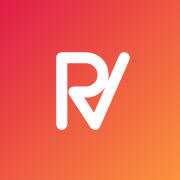
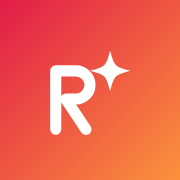
Rebrand to Resumorah: new name and spark mark across the app
- Name: Resumorah everywhere (site config, metadata, AI app title, product
  preview labels in all 12 dictionaries, package name, README)
- Logo: a rounded R with a four-point spark ('orah' = light; the spark is
  also the product's AI cue), same rose-to-tangerine gradient
- Lockup tuned so the R sits on the wordmark baseline at capital height;
  the app-icon tile centres the mark optically
- Regenerated favicon.ico (16/32/48), icon.svg, apple-icon, PWA icons
  (192/512/maskable) and the Open Graph / Twitter images

Claude-Session: https://claude.ai/code/session_01Cxjp2Q4ibxDbgXTPfCaN9N

Changed region(s): [[0.2778, 0.2778, 0.7222, 0.75]]

diff --git a/components/ui/logo.tsx b/components/ui/logo.tsx
@@ -1,9 +1,14 @@
 import { siteConfig } from "@/lib/constants";
 import { cn } from "@/lib/cn";
 
-/** The Flow mark: one stroke draws the R and runs on into a V / tick. */
-export const BRAND_MARK_PATH = "M22 84V18H46a17 17 0 0 1 0 34H34L55 84L84 18";
-const BRAND_GRADIENT_ID = "resumivo-brand-gradient";
+/**
+ * The Resumorah mark: a rounded R with a four-point spark beside it. "Orah"
+ * means light, and the spark doubles as the AI cue used across the product.
+ */
+export const BRAND_MARK_PATH = "M20 84V26H40a14 14 0 0 1 0 28H30L50 84";
+export const BRAND_SPARK_PATH =
+  "M74 6C78.4 21.6 78.4 21.6 94 26C78.4 30.4 78.4 30.4 74 46C69.6 30.4 69.6 30.4 54 26C69.6 21.6 69.6 21.6 74 6Z";
+const BRAND_GRADIENT_ID = "resumorah-brand-gradient";
 
 /**
  * Shared gradient for every logo on the page. Rendered once in the root layout:
@@ -40,7 +45,8 @@ export function LogoMark({ className, variant = "stroke" }: LogoMarkProps) {
         )}
         style={{ backgroundImage: "linear-gradient(135deg, #e11d48, #fb923c)" }}
       >
-        <svg viewBox="0 0 100 100" className="size-[62%]" fill="none">
+        {/* Shifted viewBox centres the ink (R + spark) optically in the tile. */}
+        <svg viewBox="4 -5 100 100" className="size-[62%]" fill="none">
           <path
             d={BRAND_MARK_PATH}
             stroke="#fff"
@@ -48,6 +54,7 @@ export function LogoMark({ className, variant = "stroke" }: LogoMarkProps) {
             strokeLinecap="round"
             strokeLinejoin="round"
           />
+          <path d={BRAND_SPARK_PATH} fill="#fff" />
         </svg>
       </span>
     );
@@ -67,6 +74,7 @@ export function LogoMark({ className, variant = "stroke" }: LogoMarkProps) {
         strokeLinecap="round"
         strokeLinejoin="round"
       />
+      <path d={BRAND_SPARK_PATH} fill={`url(#${BRAND_GRADIENT_ID})`} />
     </svg>
   );
 }
@@ -88,11 +96,13 @@ export function Logo({ className, tone = "dark", showWordmark = true }: LogoProp
   return (
     <span
       className={cn(
-        "inline-flex items-center gap-[0.32em] align-middle font-brand text-[1.3rem] font-bold leading-none",
+        "inline-flex items-center gap-[0.26em] align-middle font-brand text-[1.3rem] font-bold leading-none",
         className,
       )}
     >
-      <LogoMark className="size-[1.42em]" />
+      {/* Lifted so the R's foot sits on the wordmark's baseline (the spark
+          raises the mark's ink box above the letters). */}
+      <LogoMark className={cn("size-[1.3em]", showWordmark && "-translate-y-[0.2em]")} />
       {showWordmark ? (
         <span
           data-logo-word=""

diff --git a/lib/constants.ts b/lib/constants.ts
@@ -1,8 +1,8 @@
 import type { SiteConfig } from "@/types/app";
 
 export const siteConfig = {
-  name: "Resumivo",
+  name: "Resumorah",
   tagline: "From blank page to hired.",
   description:
-    "Resumivo is an AI-assisted CV builder with regional templates, six languages and pixel-perfect PDF export.",
+    "Resumorah is an AI-assisted CV builder with regional templates, 12 languages and pixel-perfect PDF export.",
 } satisfies SiteConfig;

diff --git a/lib/i18n/dictionaries/ar.ts b/lib/i18n/dictionaries/ar.ts
@@ -70,7 +70,7 @@ export const ar: Dictionary = {
     chipPdf: "ملف PDF جاهز للتنزيل",
   },
   preview: {
-    label: "معاينة منتج Resumivo (بيانات تجريبية)",
+    label: "معاينة منتج Resumorah (بيانات تجريبية)",
     saved: "تم الحفظ",
     fullName: "الاسم الكامل",
     title: "المسمى الوظيفي",

diff --git a/lib/i18n/dictionaries/ru.ts b/lib/i18n/dictionaries/ru.ts
@@ -74,7 +74,7 @@ export const ru: Dictionary = {
     chipPdf: "PDF готов к скачиванию",
   },
   preview: {
-    label: "Предпросмотр Resumivo (демоданные)",
+    label: "Предпросмотр Resumorah (демоданные)",
     saved: "Сохранено",
     fullName: "Полное имя",
     title: "Должность",

diff --git a/lib/ai/constants.ts b/lib/ai/constants.ts
@@ -7,4 +7,4 @@ export const AI_MAX_EXPERIENCE_OUTPUT = 10_000;
 export const AI_REQUEST_TIMEOUT_MS = 120_000;
 export const OPENROUTER_BASE_URL = "https://openrouter.ai/api/v1";
 export const OPENROUTER_DEFAULT_MODEL = "openai/gpt-4o-mini";
-export const OPENROUTER_APP_TITLE = "Resumivo";
+export const OPENROUTER_APP_TITLE = "Resumorah";

diff --git a/lib/i18n/dictionaries/fr.ts b/lib/i18n/dictionaries/fr.ts
@@ -70,7 +70,7 @@ export const fr: Dictionary = {
     chipPdf: "PDF prêt à télécharger",
   },
   preview: {
-    label: "Aperçu du produit Resumivo (données de démonstration)",
+    label: "Aperçu du produit Resumorah (données de démonstration)",
     saved: "Enregistré",
     fullName: "Nom complet",
     title: "Poste",

diff --git a/lib/i18n/dictionaries/es.ts b/lib/i18n/dictionaries/es.ts
@@ -70,7 +70,7 @@ export const es: Dictionary = {
     chipPdf: "PDF listo para descargar",
   },
   preview: {
-    label: "Vista previa del producto Resumivo (datos de ejemplo)",
+    label: "Vista previa del producto Resumorah (datos de ejemplo)",
     saved: "Guardado",
     fullName: "Nombre completo",
     title: "Puesto",

diff --git a/lib/i18n/dictionaries/it.ts b/lib/i18n/dictionaries/it.ts
@@ -74,7 +74,7 @@ export const it: Dictionary = {
     chipPdf: "PDF pronto da scaricare",
   },
   preview: {
-    label: "Anteprima del prodotto Resumivo (dati dimostrativi)",
+    label: "Anteprima del prodotto Resumorah (dati dimostrativi)",
     saved: "Salvato",
     fullName: "Nome e cognome",
     title: "Qualifica",

diff --git a/lib/i18n/dictionaries/pt.ts b/lib/i18n/dictionaries/pt.ts
@@ -74,7 +74,7 @@ export const pt: Dictionary = {
     chipPdf: "PDF pronto para baixar",
   },
   preview: {
-    label: "Prévia do produto Resumivo (dados de demonstração)",
+    label: "Prévia do produto Resumorah (dados de demonstração)",
     saved: "Salvo",
     fullName: "Nome completo",
     title: "Cargo",

diff --git a/lib/i18n/dictionaries/nl.ts b/lib/i18n/dictionaries/nl.ts
@@ -74,7 +74,7 @@ export const nl: Dictionary = {
     chipPdf: "PDF klaar om te downloaden",
   },
   preview: {
-    label: "Productvoorbeeld van Resumivo (demogegevens)",
+    label: "Productvoorbeeld van Resumorah (demogegevens)",
     saved: "Opgeslagen",
     fullName: "Volledige naam",
     title: "Functietitel",

diff --git a/lib/i18n/dictionaries/pl.ts b/lib/i18n/dictionaries/pl.ts
@@ -74,7 +74,7 @@ export const pl: Dictionary = {
     chipPdf: "PDF gotowy do pobrania",
   },
   preview: {
-    label: "Podgląd produktu Resumivo (dane przykładowe)",
+    label: "Podgląd produktu Resumorah (dane przykładowe)",
     saved: "Zapisano",
     fullName: "Imię i nazwisko",
     title: "Stanowisko",

diff --git a/lib/i18n/dictionaries/de.ts b/lib/i18n/dictionaries/de.ts
@@ -70,7 +70,7 @@ export const de: Dictionary = {
     chipPdf: "PDF zum Download bereit",
   },
   preview: {
-    label: "Produktvorschau von Resumivo (Demodaten)",
+    label: "Produktvorschau von Resumorah (Demodaten)",
     saved: "Gespeichert",
     fullName: "Vollständiger Name",
     title: "Position",
